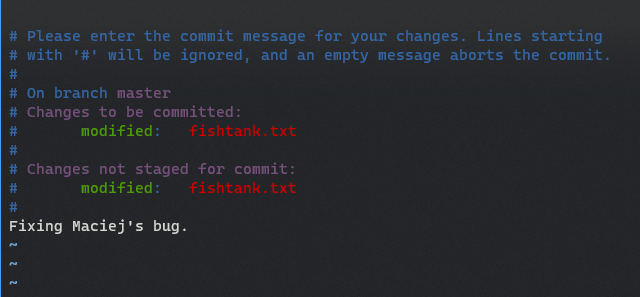
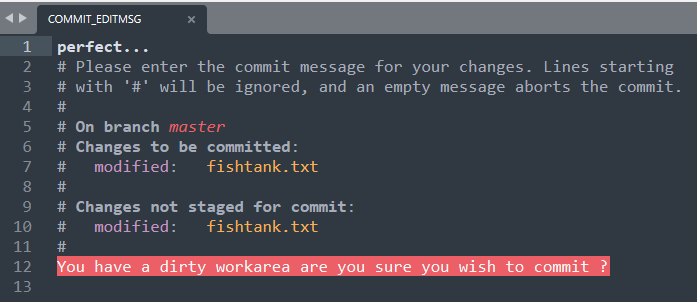
Correct the bug in the hook script in section 7.2 in Chapter 7

diff --git a/Ch07.md b/Ch07.md
@@ -243,7 +243,7 @@ if [ "$2" == "commit" ]; then
   exit 1
 fi
 MESSAGE=$(curl -s http://whatthecommit.com/index.txt)
-echo "$MESSAGE" >> $1
+echo "$MESSAGE $(cat $1)" > $1
 
 for file in $(git status --porcelain)
 do
@@ -254,6 +254,7 @@ done
 if [ "${DIRTY}" ]; then
   # -i '' is not needed on Linux 
   sed "s/# Please/You have a dirty workarea are you sure you wish to commit ?\n&/" $1
+  echo "You have a dirty workarea are you sure you wish to commit ?" >> $1
 fi
 ```
 
@@ -263,13 +264,13 @@ fi
 $ git commit
 ```
 
-弹出的 `vim` 编辑器内容如下：
+弹出的编辑器内容如下：
 
-![message in vim](assets/c7-7.png)
+![image-20211219184644997](assets/c7-7.png)
 
 保存并直接提交后，原命令行的输出情况：
 
-![contents after commit](assets/c7-8.png)
+![command line outputs](assets/c7-8.png)
 
 根据提示，工作区在提交后仍有变更。再到 `git log` 中查看：
 
@@ -277,11 +278,11 @@ $ git commit
 $ git log -1
 ```
 
-![result in git log](assets/c7-9.png)
+![git log result](assets/c7-9.png)
 
 这样就能在提交的时候，检测工作区是否有遗漏的变更。
 
-（此处与书中的结果大相径庭。即便脚本调整为 `echo "$MESSAGE" >> $1` 也不行。具体原因待定）
+（此处与书中的结果略有不同，但殊途同归。原脚本的问题在于 `echo "$MESSAGE" > $1` 将原来的提示信息覆盖了，具体更正方案待定。）
 
 为了方便下一节的演示，恢复到拓展之前的状态：
 
@@ -456,6 +457,8 @@ fi
 
 
 ## 7.4 阻止特定版本推送到远程库
+
+
 
 ## 7.5 配置并使用 Git 别名
 
